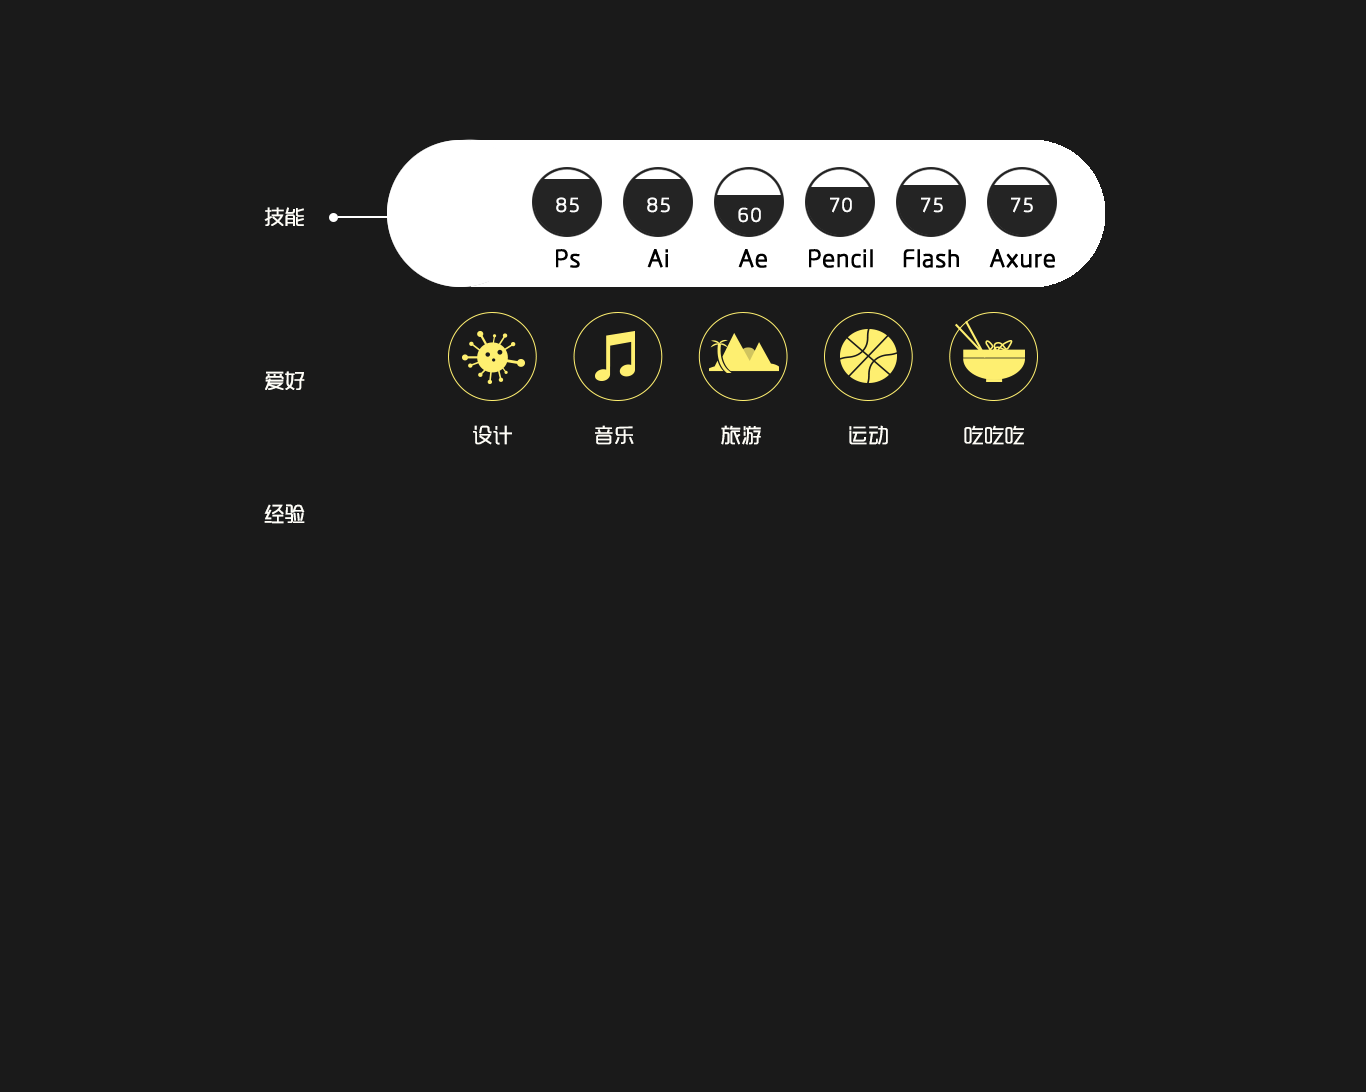
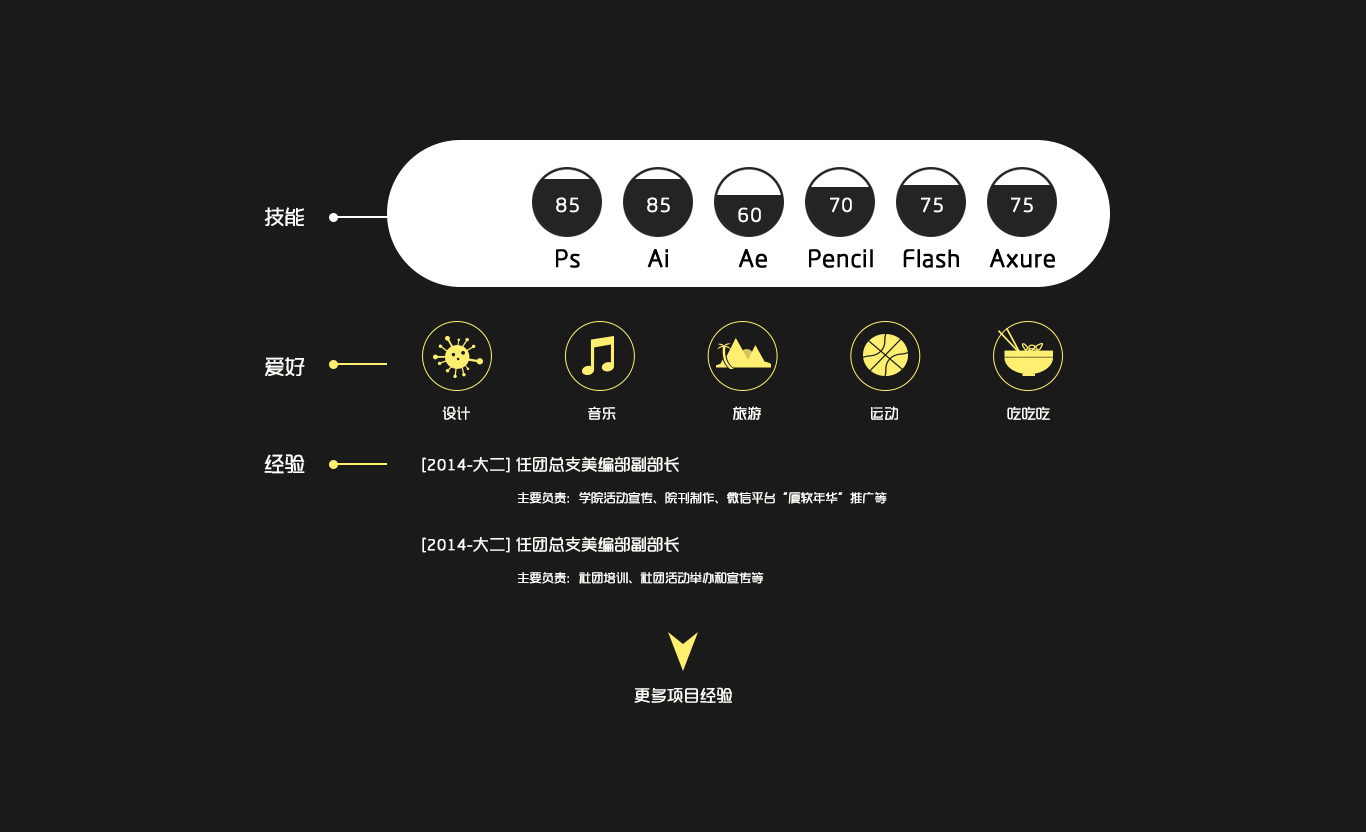
change image

diff --git a/index.html b/index.html
@@ -58,15 +58,8 @@ layout: false
 		</div>
 	</div>
 </div>
-<div id="skill" class="ui feature segment">
-	<img class="parallax fourth" src="/img/skill2.png">
-	<!--<div class="ui page grid resume">
-    	<div class="sixteen wide column">
-    		{% include resume.html %}	
-	</div>
-	</div>-->
-	<div class="ui inverted segment parallax second"></div>
-</div>
+<img id="skill" class="parallax fourth" src="/img/skill.png">
+
 <div id="post" class="ui masthead segment">
 	<div class="ui two column centered grid">
 		<div class="column">
